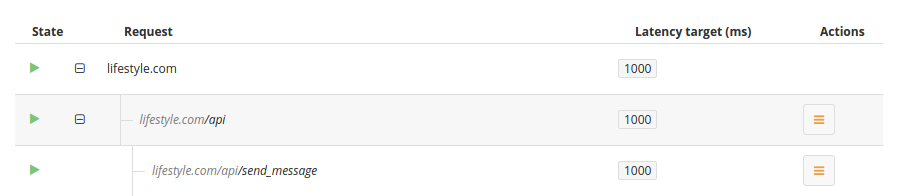
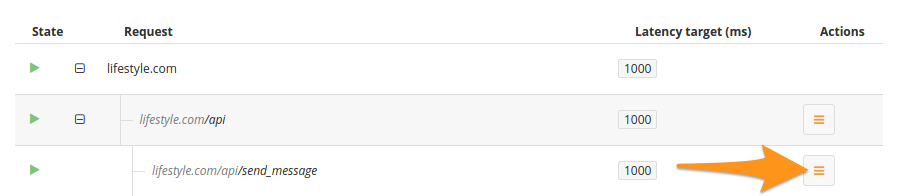
Added some more info to webrequest-method

Changed region(s): [[0.7492, 0.7347, 0.9052, 0.9796]]

diff --git a/_docs_agent/webrequest-method.md b/_docs_agent/webrequest-method.md
@@ -7,13 +7,21 @@ description: How to track web requests by HTTP method.
 1. Navigate to your <a href="http://app.coscale.com" db-href="/metrics/requests/" class="js-dashboard-link">web requests</a> page. This page is available in the navigation menu: Metrics > Web.
 
 2. Find the web request you would also like to track the method for. In this example we want to track post requests for "lifestyle.com/api/send_message".
-<img src="{{ site.baseurl}}/gfx/agent/extra/requests-method/requestList.png" alt="Web requests list" class="img-responsive" />
+
+    <img src="{{ site.baseurl}}/gfx/agent/extra/requests-method/requestList.png" alt="Web requests list" class="img-responsive" />
 
 3. Start by adding a child request by clicking the button on the right > "Add child request". Fill in the fields as follows:
- <img src="{{ site.baseurl}}/gfx/agent/extra/requests-method/addNewRequest.png" alt="The new web request dialog." class="img-responsive" />
-* **Name**: The name of the child request, this can be the HTTP method you want to match.
-* **Match type**: This should be set to `Method`.
-* **Function**: This should be set to `Exact match`.
-* **Value**: The method you want to match, eg: GET, POST, PUT, DELETE, PATCH, HEAD, OPTIONS, CONNECT
+
+    <img src="{{ site.baseurl}}/gfx/agent/extra/requests-method/addNewRequest.png" alt="The new web request dialog." class="img-responsive" />
+
+    * **Name**: The name of the child request, this can be the HTTP method you want to match.
+    * **Match type**: This should be set to `Method`.
+    * **Function**: This should be set to `Exact match`.
+    * **Value**: The method you want to match, eg: GET, POST, PUT, DELETE, PATCH, HEAD, OPTIONS, CONNECT
+
+    The result of adding the requests should look something like this:
+
+    <img src="{{ site.baseurl}}/gfx/agent/extra/requests-method/requestListDone.png" alt="Web requests list" class="img-responsive" />
+
 
 4. After a couple minutes it should be possible to select and view data for the configured methods.
